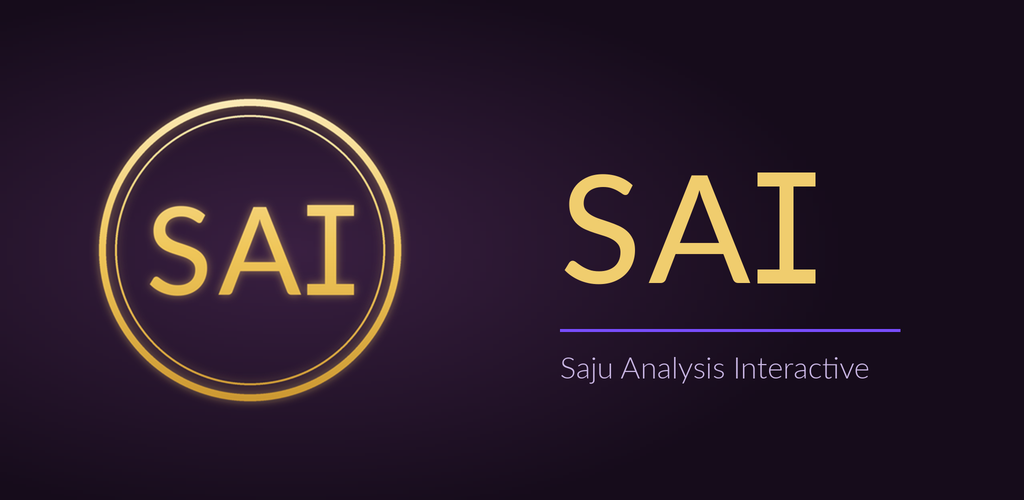
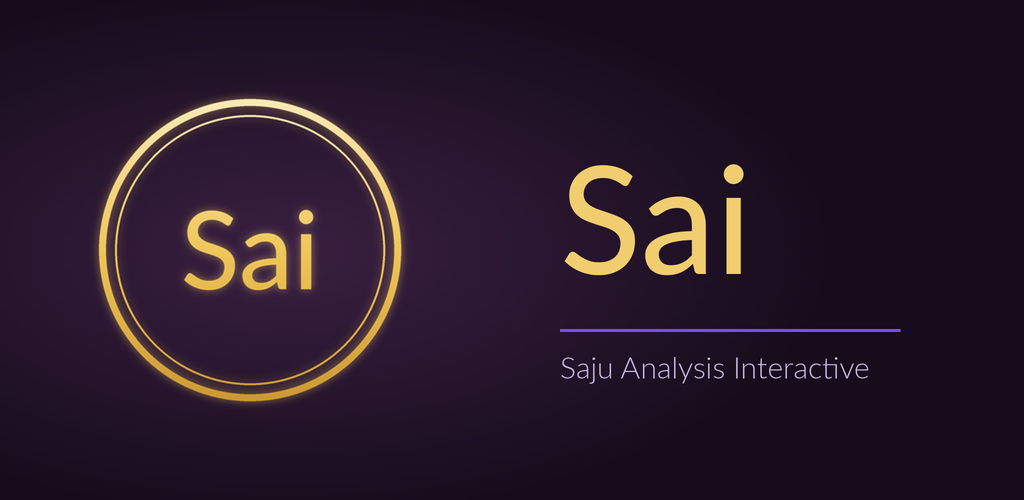
브랜드 표기 SAI -> Sai 통일 + 아이콘 글씨 축소

Changed region(s): [[0.5312, 0.33, 0.8125, 0.57], [0.125, 0.39, 0.3438, 0.6]]

diff --git a/docs/privacy_policy.html b/docs/privacy_policy.html
@@ -3,7 +3,7 @@
 <head>
 <meta charset="UTF-8">
 <meta name="viewport" content="width=device-width, initial-scale=1.0">
-<title>SAI 개인정보 처리방침</title>
+<title>Sai 개인정보 처리방침</title>
 <style>
   * { box-sizing: border-box; margin: 0; padding: 0; }
   body {
@@ -121,16 +121,16 @@
 <body>
 
 <h1>개인정보 처리방침</h1>
-<p class="meta">시행일: 2026-06-18 &nbsp;·&nbsp; 최종 수정: 2026-06-18 &nbsp;·&nbsp; 서비스명: SAI (Saju Analysis Interactive) &nbsp;·&nbsp; 「개인정보 처리방침 작성지침(2026.4.)」 반영</p>
+<p class="meta">시행일: 2026-06-18 &nbsp;·&nbsp; 최종 수정: 2026-06-18 &nbsp;·&nbsp; 서비스명: Sai (Saju Analysis Interactive) &nbsp;·&nbsp; 「개인정보 처리방침 작성지침(2026.4.)」 반영</p>
 <hr class="top-divider">
 
 <div class="intro">
-  <b>SAI</b>은(는) 정보주체의 자유와 권리 보호를 위해 「개인정보 보호법」 및 관계 법령이 정한 바를 준수하여, 적법하게 개인정보를 처리하고 안전하게 관리하고 있습니다. 이에 「개인정보 보호법」 제30조에 따라 정보주체에게 개인정보 처리에 관한 절차 및 기준을 안내하고, 이와 관련한 고충을 신속하고 원활하게 처리할 수 있도록 다음과 같이 개인정보 처리방침을 수립·공개합니다.<br><br>
+  <b>Sai</b>은(는) 정보주체의 자유와 권리 보호를 위해 「개인정보 보호법」 및 관계 법령이 정한 바를 준수하여, 적법하게 개인정보를 처리하고 안전하게 관리하고 있습니다. 이에 「개인정보 보호법」 제30조에 따라 정보주체에게 개인정보 처리에 관한 절차 및 기준을 안내하고, 이와 관련한 고충을 신속하고 원활하게 처리할 수 있도록 다음과 같이 개인정보 처리방침을 수립·공개합니다.<br><br>
   본 앱은 사주 원국 구조와 모두의 케미·맞짱을 <b>오락·참고용</b>으로 제공하며, 결과를 법률·의료·투자·채용·혼인 등 중대한 의사결정의 근거로 사용해서는 안 됩니다.
 </div>
 
 <h2>1. 개인정보의 처리 목적 및 법적 근거</h2>
-<p>SAI은 다음 목적을 위해 입력 정보를 처리합니다. 각 목적의 처리 근거는 「개인정보 보호법」 제15조제1항 각 호에 따릅니다.</p>
+<p>Sai은 다음 목적을 위해 입력 정보를 처리합니다. 각 목적의 처리 근거는 「개인정보 보호법」 제15조제1항 각 호에 따릅니다.</p>
 <ul>
   <li>생년월일시 자동 산출 또는 원국 직접 입력에 따른 사주 원국 분석 <span class="basis">(제15조제1항제1호 — 정보주체의 동의)</span></li>
   <li>모두의 케미, 케미 분석 결과 산출 <span class="basis">(제15조제1항제1호 — 정보주체의 동의)</span></li>
@@ -177,7 +177,7 @@
 </ul>
 
 <h2>4. 개인정보의 제3자 제공</h2>
-<p>SAI 앱 코드 자체에는 입력값을 제3자에게 직접 제공하는 기능이 없습니다. 다만 Google AdMob SDK가 광고 제공 목적으로 광고 식별자(GAID)를 Google LLC에 전송할 수 있습니다 (모바일 앱 해당).</p>
+<p>Sai 앱 코드 자체에는 입력값을 제3자에게 직접 제공하는 기능이 없습니다. 다만 Google AdMob SDK가 광고 제공 목적으로 광고 식별자(GAID)를 Google LLC에 전송할 수 있습니다 (모바일 앱 해당).</p>
 
 <h2>5. 개인정보 처리의 위탁 및 국외 이전</h2>
 <p>본 서비스는 앱 구동·데이터 보관·서비스 이용 분석을 위해 아래 사업자에게 개인정보 처리를 위탁하며, 수탁자가 국외(미국)에 위치하므로 「개인정보 보호법」 제26조(처리 위탁) 및 제28조의8(국외 이전)에 따라 그 현황을 함께 안내합니다. 국외 이전에 대한 동의는 앱 최초 실행 시 동의 절차를 통해 받으며, 거부 시 해당 서비스 이용이 제한될 수 있습니다.</p>
@@ -219,7 +219,7 @@
 <p>다만 사용자가 이미 다운로드한 파일, 직접 캡처한 화면, 외부에 공유한 내용은 앱에서 삭제할 수 없습니다.</p>
 
 <h2>8. 정보주체와 법정대리인의 권리·의무 및 행사 방법</h2>
-<p>이용자(정보주체)는 SAI에 대해 언제든지 다음 개인정보 보호 관련 권리를 행사할 수 있습니다.</p>
+<p>이용자(정보주체)는 Sai에 대해 언제든지 다음 개인정보 보호 관련 권리를 행사할 수 있습니다.</p>
 <ul>
   <li>개인정보 열람 요구</li>
   <li>오류 등이 있을 경우 정정 요구</li>
@@ -235,7 +235,7 @@
 </div>
 
 <h2>9. 개인정보의 안전성 확보조치</h2>
-<p>SAI은 개인정보 노출을 줄이기 위해 다음 원칙을 적용합니다.</p>
+<p>Sai은 개인정보 노출을 줄이기 위해 다음 원칙을 적용합니다.</p>
 <ul>
   <li>실명 대신 별명 사용 권장</li>
   <li>클라우드 데이터베이스에 원본 생년월일시·성별·사주 간지를 저장하지 않으며, 분석 후 산출된 점수와 등급만 저장</li>
@@ -261,7 +261,7 @@
 </ul>
 
 <h2>11. 자동화된 결정에 관한 안내</h2>
-<p>SAI의 점수·등급은 앱 내부의 고정 명리 계산식에 따라 산출되는 오락·참고용 결과입니다. 본 서비스는 정보주체의 권리 또는 의무에 <b>중대한 영향을 미치는 자동화된 결정</b>(「개인정보 보호법」 제37조의2)을 수행하지 않으므로, 동 조항에 따른 거부·설명 요구권의 대상이 아닙니다. 이 결과는 법률·채용·투자·대출·의료·혼인 등 중대한 의사결정을 자동으로 결정하기 위한 것이 아니며, 그러한 용도로 사용해서는 안 됩니다.</p>
+<p>Sai의 점수·등급은 앱 내부의 고정 명리 계산식에 따라 산출되는 오락·참고용 결과입니다. 본 서비스는 정보주체의 권리 또는 의무에 <b>중대한 영향을 미치는 자동화된 결정</b>(「개인정보 보호법」 제37조의2)을 수행하지 않으므로, 동 조항에 따른 거부·설명 요구권의 대상이 아닙니다. 이 결과는 법률·채용·투자·대출·의료·혼인 등 중대한 의사결정을 자동으로 결정하기 위한 것이 아니며, 그러한 용도로 사용해서는 안 됩니다.</p>
 
 <h2>12. 개인정보 처리방침의 변경</h2>
 <p>본 처리방침은 앱 기능·배포·저장 방식, 운영자 정보, 관계 법령 변경 등에 따라 개정될 수 있습니다.</p>
@@ -291,7 +291,7 @@
 </ul>
 
 <div class="footer">
-  SAI (Saju Analysis Interactive) &nbsp;·&nbsp; 개인 운영 &nbsp;·&nbsp; hwakia@gmail.com<br>
+  Sai (Saju Analysis Interactive) &nbsp;·&nbsp; 개인 운영 &nbsp;·&nbsp; hwakia@gmail.com<br>
   시행일 2026-06-18 &nbsp;·&nbsp; 최종 수정 2026-06-18 &nbsp;·&nbsp; 「개인정보 처리방침 작성지침(2026.4.)」 반영
 </div>
 

diff --git a/saju_mri/lib/screens/consent_screen.dart b/saju_mri/lib/screens/consent_screen.dart
@@ -54,7 +54,7 @@ class _ConsentScreenState extends State<ConsentScreen> {
                     ),
                     const SizedBox(height: 16),
                     const Text(
-                      'SAI',
+                      'Sai',
                       style: TextStyle(
                         fontSize: 26,
                         fontWeight: FontWeight.bold,
@@ -251,7 +251,7 @@ class _ConsentScreenState extends State<ConsentScreen> {
                     ),
                     const SizedBox(height: 4),
                     const Text(
-                      '시행일: 2026-06-14 · 최종 수정: 2026-06-14 · 서비스명: SAI (Saju Analysis Interactive)',
+                      '시행일: 2026-06-14 · 최종 수정: 2026-06-14 · 서비스명: Sai (Saju Analysis Interactive)',
                       style: TextStyle(fontSize: 11, color: Color(0xFF888888)),
                     ),
                     const SizedBox(height: 16),
@@ -294,7 +294,7 @@ class _ConsentScreenState extends State<ConsentScreen> {
         Text('1. 개인정보의 처리 목적', style: headStyle),
         SizedBox(height: 4),
         Text(
-          'SAI는 사주 원국 분석, 케미 방·맞짱 방 기능 제공 등을 위해 '
+          'Sai는 사주 원국 분석, 케미 방·맞짱 방 기능 제공 등을 위해 '
           '정보주체의 동의를 바탕으로 개인정보를 처리합니다.',
           style: style,
         ),

diff --git a/saju_mri/lib/screens/home_screen.dart b/saju_mri/lib/screens/home_screen.dart
@@ -227,7 +227,7 @@ class _HomeScreenState extends State<HomeScreen> with WidgetsBindingObserver {
                             ),
                             SizedBox(height: 16),
                             Text(
-                              'SAI 불러오는 중...',
+                              'Sai 불러오는 중...',
                               style: TextStyle(
                                 color: Color(0xFF666666),
                                 fontSize: 14,
@@ -311,7 +311,7 @@ class _HomeScreenState extends State<HomeScreen> with WidgetsBindingObserver {
       context: context,
       builder: (context) => AlertDialog(
         title: const Text('앱 종료'),
-        content: const Text('SAI를 종료하시겠습니까?'),
+        content: const Text('Sai를 종료하시겠습니까?'),
         shape: RoundedRectangleBorder(
           borderRadius: BorderRadius.circular(12),
         ),

diff --git a/saju_mri/lib/screens/splash_screen.dart b/saju_mri/lib/screens/splash_screen.dart
@@ -83,7 +83,7 @@ class _SplashScreenState extends State<SplashScreen>
                 ),
                 const SizedBox(height: 24),
                 const Text(
-                  'SAI',
+                  'Sai',
                   style: TextStyle(
                     fontSize: 32,
                     fontWeight: FontWeight.bold,

diff --git a/saju_mri/lib/main.dart b/saju_mri/lib/main.dart
@@ -20,7 +20,7 @@ class SajuMajjangApp extends StatelessWidget {
   @override
   Widget build(BuildContext context) {
     return MaterialApp(
-      title: 'SAI',
+      title: 'Sai',
       debugShowCheckedModeBanner: false,
       theme: ThemeData(
         colorScheme: ColorScheme.fromSeed(
